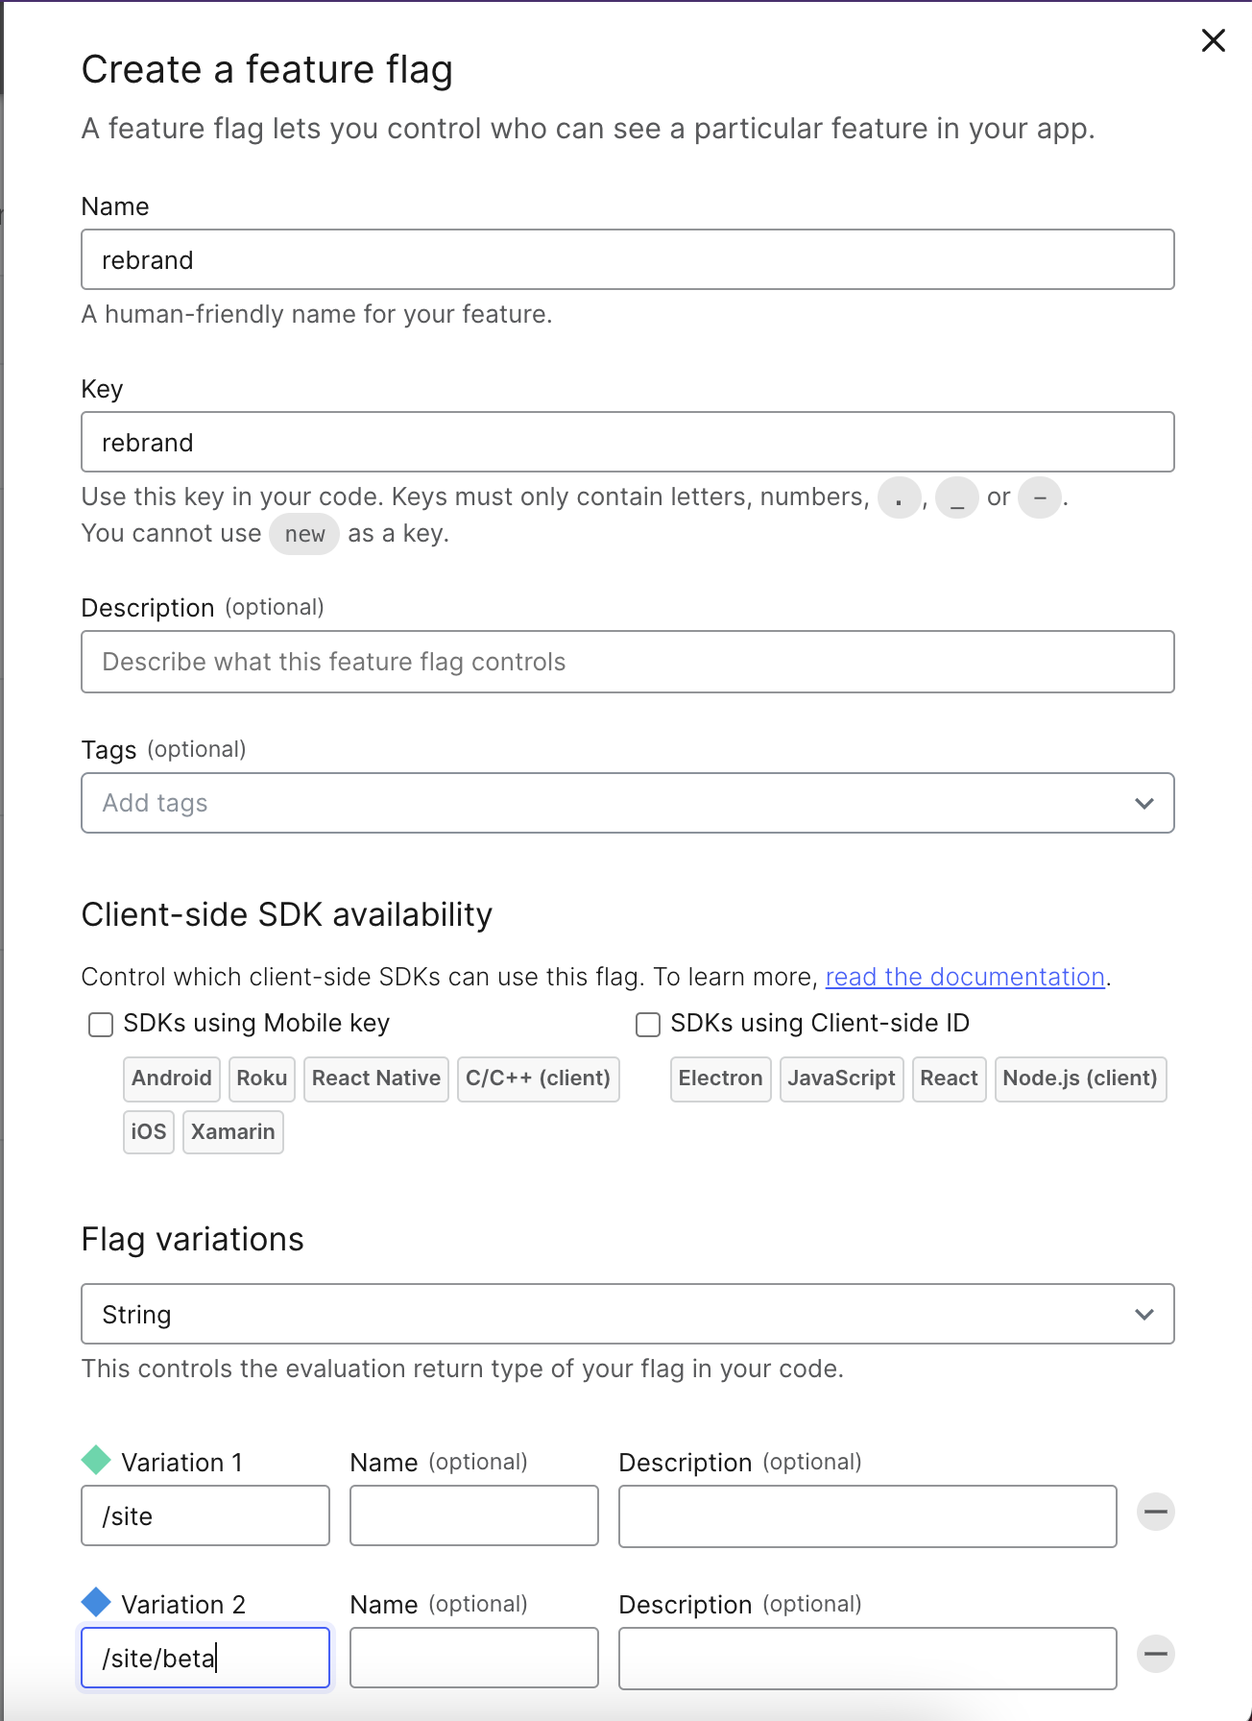
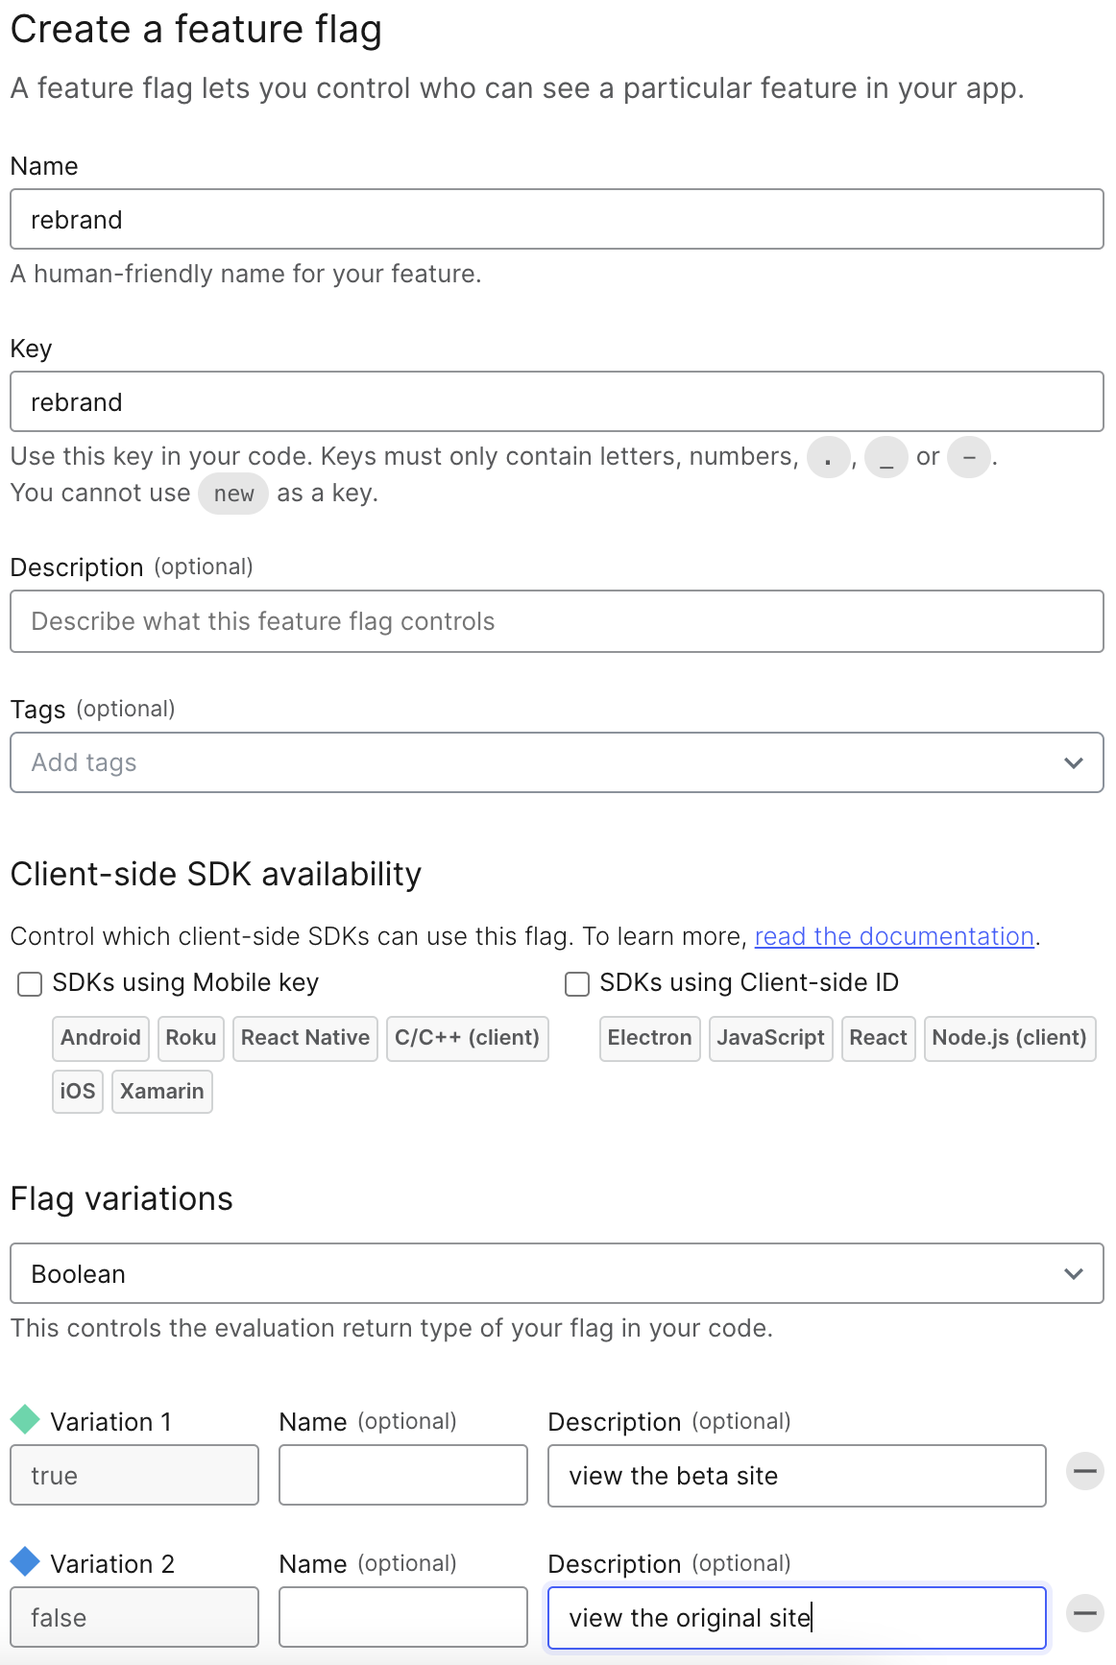
new articles

diff --git a/LambdaEdge/Using LaunchDarkly with AWS Lambda.md b/LambdaEdge/Using LaunchDarkly with AWS Lambda.md
@@ -6,7 +6,7 @@ In this guide, we'll explore how to build a serverless function using [AWS Lambd
 
 ## The Example
 
-Let's imagine our company is launching a rebrand tht includes a new site relaunch. This is a clearly major undertaking and the marketing department wants to be sure that everything is perfect. Rather than simply flip the switch from one day to the next, they want to roll out the new site to an increasing percentage of users to ensure everything looks good before eventually transitioning everyone to the new page. How can we do this without it becoming a major DevOps headache?
+Let's imagine our company is launching a rebrand that includes a new site relaunch. This is a clearly major undertaking and the marketing department wants to be sure that everything is perfect. Rather than simply flip the switch from one day to the next, they want to roll out the new site to an increasing percentage of users to ensure everything looks good before eventually transitioning everyone to the new page. How can we do this without it becoming a major DevOps headache?
 
 In our example, we'll use LaunchDarkly to eliminate the DevOps headaches involved in this while also allowing the marketing team full control of the rollout. LaunchDarkly will assign each user to a variation that determines whether they see the new site or the old site. Our AWS Lambda@Edge function will use this information to route them to the appropriate version of the site at the edge rather than relying on a client-side or server-side redirect.
 
@@ -21,7 +21,18 @@ The source code for this example can be found at [on GitHub](https://github.com/
 Before we begin coding, there are a couple of resources that we should set up within AWS:
 
 1. **An S3 Bucket** – S3 is Amazon's storage solution where we can house and retrieve arbitrary files. It can also be used to host a static web site, which is what we'll be using it for in this guide. Our site is intentionally simple. It has an index page in the root as well as a `/beta` folder that contains the same page with the new branding. Once we've completed our Lambda function, users will either be directed to the old site or the new site depending on which variation they are assigned to within LaunchDarkly. LaunchDarkly determines this by assigning each unique user (identified by their key in this scenario) according to the percentage rollout we'll define.
-2. **A CloudFront Distribution** – This is required to run a Lambda function via AWS's edge servers ( Lambda@Edge) on their CloudFront CDN. Since our function will redirect users to the proper site, this is better done "at the edge" so as to limit any latency the user might see during the request. Rather than intercept the request on the server and do a server-side redirect or even sending back a response that performs a client-side redirect, we can intercept this request at the CDN level closest to the user and direct it to the proper version of the site.
+2. **A CloudFront Distribution** – This is required to run a Lambda function via AWS's edge servers (Lambda@Edge) on their CloudFront CDN. Since our function will redirect users to the proper site, this is better done "at the edge" so as to limit any latency the user might see during the request. Rather than intercept the request on the server and do a server-side redirect or even sending back a response that performs a client-side redirect, we can intercept this request at the CDN level closest to the user and direct it to the proper version of the site.
+
+### CloudFormation
+
+In the AWS console, search for CloudFormation.
+Click create stack
+Choose Template is Ready and Upload a Template and then choose the template file from the repo
+Click Next
+Name the stack "LaunchDarkly-Example" and click next
+On the configure stack options step, accept the defaults and click next
+Review the details and click "Create stack"
+wait for the stack to be created (this can take a few minutes)
 
 ### Setting Up an S3 Bucket
 
@@ -97,7 +108,7 @@ Now that we have our function dowloaded locally, we can install the [LaunchDarkl
     return response;
    };
    ```
-5. To update our Lambda function, including uploading the npm dependencies, open the AWS panel in VS Code. Right-click the function and select "Upload". When prompted, choose "Directory" and then select the directory that the Lambda function resides in. When it asks you whether to build with SAM, choose "No" to just upload the contents of the directory.
+5. To update our Lambda function, including uploading the npm dependencies, open the AWS panel in Visual Studio Code. Right-click the function and select "Upload". When prompted, choose "Directory" and then select the directory that the Lambda function resides in. When it asks you whether to build with SAM, choose "No" to just upload the contents of the directory.
 6. To test the function, right-click on the function again and choose "Invoke on AWS". We do not need to provide any payload, just click the "invoke" button. The output panel should show a response `{"statusCode":200,"body":"\"Initialization successful\""}` showing that the SDK client properly initialized.
 	
 	![Our initialization was successful](aws-invoke-initialize.png)
@@ -129,12 +140,12 @@ Now that we have a flag, let's use it within our function.
       statusCode: 200,
     };
     await client.waitForInitialization();
-    let landingPage = await client.variation(
+    let viewBetaSite = await client.variation(
       "rebrand",
       { key: "brinaldi@launchdarkly.com" },
       false
     );
-    response.body = JSON.stringify(landingPage);
+    response.body = JSON.stringify(viewBetaSite);
     return response;
     };
 	```
@@ -146,7 +157,7 @@ We've successfully integrated and used a LaunchDarkly flag within a Lambda funct
 
 ## Deploying Our Function to Lambda@Edge
 
-We're using Lambda but we're not yet using Lambda@Edge. Let's walk through how to deploy our functin there.
+We're using Lambda but we're not yet using Lambda@Edge. Let's walk through how to deploy our function there.
 
 A function running on Lambda@Edge receives a specific [event structure](https://docs.aws.amazon.com/AmazonCloudFront/latest/DeveloperGuide/lambda-event-structure.html). We'll utilize this to specify a key for LaunchDarkly that will ensure that different users get different variations but the same user always end up in the same group (as in, they don't see one site on one click and one site on another, which would be bad).
 
@@ -154,15 +165,19 @@ Let's start by updating our function to use this event. The following code gets 
 
 ```javascript
 exports.handler = async (event) => {
-  const s3url =
-    "http://launchdarkly-example.s3-website-us-east-1.amazonaws.com";
+  let URL =
+    "https://launchdarklydemostack1-s3bucketforwebsitecontent-jffmp2434grq.s3.amazonaws.com/site/";
 
   await client.waitForInitialization();
-  let landingPage = await client.variation(
+  let viewBetaSite = await client.variation(
     "rebrand",
     { key: event.Records[0].cf.request.clientIp },
     false
   );
+  console.log(`LaunchDarkly returned ${viewBetaSite}`);
+
+  if (viewBetaSite) URL += "beta/index.html";
+  else URL += "index.html";
   return {
     status: "302",
     statusDescription: "Found",
@@ -170,13 +185,15 @@ exports.handler = async (event) => {
       location: [
         {
           key: "Location",
-          value: s3url + landingPage,
+          value: URL,
         },
       ],
     },
   };
 };
 ```
+
+NOTE ABOUT CACHE CONTROL
 
 After updating the code, use the AWS panel in Visual Studio Code to upload it again by right clicking on the function and choosing "Upload Lambda".
 
@@ -185,7 +202,7 @@ After updating the code, use the AWS panel in Visual Studio Code to upload it ag
 In order to test the function within the AWS panel, we'll need to provide a payload that represents the Lambda@Edge event structure. Open the AWS panel in Visual Studio Code. Right-click on the function and select "Invoke on AWS". From the sample request payload dropdown, choose the "Cloudfront HTTP Redirect" and then click "Invoke". You should get a response like:
 
 ```json
-{"status":"302","statusDescription":"Found","headers":{"location":[{"key":"Location","value":"http://launchdarkly-example.s3-website-us-east-1.amazonaws.com/site/beta"}]}}
+{"status":"302","statusDescription":"Found","headers":{"location":[{"key":"Location","value":"d123.cf.net/site/beta/experiment-pixel.jpg"}]}}
 ```
 
 ![Invoking the Lambda with a sample payload](aws-invoke-lambda-edge.png)
@@ -207,7 +224,7 @@ In the "Existing Role" dropdown, select "service-role/lambdaEdge". We don't need
 Now we're ready to enable the trigger.
 
 1. Open your Lambda Function and click the "Add trigger" button.
-2. In "Select a trigger" dropdown search for "CloudFront" and then click the button to "Deploy to Lambda@Edge". Accept the defaults and click "Deploy".
+2. In "Select a trigger" dropdown search for "CloudFront" and then click the button to "Deploy to Lambda@Edge". CHANGE FROM ORIGIN REQUEST - EXPLAIN! Accept the defaults and click "Deploy".
 	
 	![Adding a CloudFront trigger](aws-lambda-add-trigger.png)
 3. When configuring the CloudFront trigger, all of the defaults are ok. Click deploy (note that you may be asked to do this twice, just accept the defaults both times).

diff --git a/LambdaEdge/Using LaunchDarkly with AWS Lambda@Edge.md b/LambdaEdge/Using LaunchDarkly with AWS Lambda@Edge.md
@@ -17,6 +17,19 @@ Within AWS, we'll need to create two different resources to complete this challe
 1. **An S3 Bucket** – This will house our simple "web site." The site has an index page in the root as well as a `/beta` folder that contains the same. page with the new branding. Once the challenge is complete, users will either be directed to the old site or the new site depending on which variation they are assigned to within LaunchDarkly. LaunchDarkly determines this by assigning each unique user (identified by their key in this scenario) according to the percentage rollout we'll define.
 2. **A CloudFront Distribution** – This is required to run a Lambda function via AWS's edge servers (i.e. Lambda@Edge). Since the goal of this challenge is to redirect users to the proper site, this is better done "at the edge" so as to limit any latency the user might see during the request. Rather than intercept the request on the server and do a server-side redirect or performing some kind of client-side redirect, we can intercept this request at the CDN level closest to the user and direct it to the proper version of the site.
 
+### CloudFormation
+
+NOTE: This part is the update that is not done
+
+In the AWS console, search for CloudFormation.
+Click create stack
+Choose Template is Ready and Upload a Template and then choose the template file from the repo
+Click Next
+Name the stack "LaunchDarkly-Example" and click next
+On the configure stack options step, accept the defaults and click next
+Review the details and click "Create stack"
+wait for the stack to be created (this can take a few minutes)
+
 ### Setting Up an S3 Bucket with the Challenge Resources
 
 1. Search for S3 in the AWS console. Click the "Create bucket" button.
@@ -111,7 +124,7 @@ Now let's use our new flag within our function.
 
 1. Replace the handler to the following to call our flag. We'll use our email as a static key for the moment. The key is what will determine whether we are served the same variation or a new one based upon our rollout percentages. We're hardcoding the key for the moment, so we'll always get the same result regardless of how many times we run it.
 	```javascript
-  exports.handler = async (event) => {
+    exports.handler = async (event) => {
     let response = {
       statusCode: 200,
     };
@@ -123,7 +136,7 @@ Now let's use our new flag within our function.
     );
     response.body = JSON.stringify(landingPage);
     return response;
-  };
+    };
 	```
 2. Open the AWS panel. Right-click to upload and then, when the upload finishes, right click to invoke it again. You do not need a payload. You should receive a response like `{"statusCode":200,"body":"\"/site/beta\""}`.
 	
@@ -137,15 +150,19 @@ Let's update our function to use this event. The following code gets the value o
 
 ```javascript
 exports.handler = async (event) => {
-  const s3url =
-    "http://launchdarkly-example.s3-website-us-east-1.amazonaws.com";
+  let URL =
+    "https://launchdarklydemostack1-s3bucketforwebsitecontent-jffmp2434grq.s3.amazonaws.com/site/";
 
   await client.waitForInitialization();
-  let landingPage = await client.variation(
+  let viewBetaSite = await client.variation(
     "rebrand",
     { key: event.Records[0].cf.request.clientIp },
     false
   );
+  console.log(`LaunchDarkly returned ${viewBetaSite}`);
+
+  if (viewBetaSite) URL += "beta/index.html";
+  else URL += "index.html";
   return {
     status: "302",
     statusDescription: "Found",
@@ -153,13 +170,15 @@ exports.handler = async (event) => {
       location: [
         {
           key: "Location",
-          value: s3url + landingPage,
+          value: URL,
         },
       ],
     },
   };
 };
 ```
+
+NOTE ABOUT CACHE CONTROL HEADER
 
 After updating the code, use the AWS panel in VS Code to upload it again.
 
@@ -168,7 +187,7 @@ After updating the code, use the AWS panel in VS Code to upload it again.
 In order to test the function, we'll need to provide a payload that represents the Lambda@Edge event structure. Open the AWS panel in VS Code. Right-click on the function and select "Invoke on AWS". From the sample request payload dropdown, choose the "Cloudfront HTTP Redirect" and then click "Invoke". You should get a response like:
 
 ```json
-{"status":"302","statusDescription":"Found","headers":{"location":[{"key":"Location","value":"http://launchdarkly-example.s3-website-us-east-1.amazonaws.com/site/beta"}]}}
+{"status":"302","statusDescription":"Found","headers":{"location":[{"key":"Location","value":"d123.cf.net/site/beta/experiment-pixel.jpg"}]}}
 ```
 
 ![Invoking the Lambda with a sample payload](aws-invoke-lambda-edge.png)
@@ -188,14 +207,14 @@ In the "Existing Role" dropdown, select "service-role/lambdaEdge". You don't nee
 Now we're ready to enable the trigger.
 
 1. Open your Lambda Function and click the "Add trigger" button.
-2. In "Select a trigger" dropdown search for "CloudFront" and then click the button to "Deploy to Lambda@Edge". Accept the defaults and click "Deploy".
+2. In "Select a trigger" dropdown search for "CloudFront" and then click the button to "Deploy to Lambda@Edge". CHANGE FROM ORIGIN REQUEST - EXPLAIN! Accept the defaults and click "Deploy".
 	
 	![Adding a CloudFront trigger](aws-lambda-add-trigger.png)
 3. When configuring the CloudFront trigger, all of the defaults are ok. Click deploy (note that you may be asked to do this twice, just accept the defaults both times).
 
 ![Our trigger is deployed](aws-lambda-cloudfront-trigger.png)
 
-Finally, let's test that this actually works. Click the "CloudFront" boz within the "Function Overview". This should open the Configuration > Triggers settings. Click the link next to the CloudFront trigger that has our CloudFront distribution ID. This will open up the CloudFront distribution in a new tab. Open the CloudFront distribution and under the "Details" section, copy the URL for this CloudFront distribution. If we paste this URL in the browser (be sure the CloudFront distribution has finished deploying first), it should direct us to either the old version of the page or the new one. (Note that if you're assigned to the old site but want to see the new one, just append `/beta` to the URL you are redirected to).
+Finally, let's test that this actually works. Click the "CloudFront" box within the "Function Overview". This should open the Configuration > Triggers settings. Click the link next to the CloudFront trigger that has our CloudFront distribution ID. This will open up the CloudFront distribution in a new tab. Open the CloudFront distribution and under the "Details" section, copy the URL for this CloudFront distribution. If we paste this URL in the browser (be sure the CloudFront distribution has finished deploying first), it should direct us to either the old version of the page or the new one. (Note that if you're assigned to the old site but want to see the new one, just append `/beta` to the URL you are redirected to).
 
 Congrats! You've completed the challenge. If you need to cleanup your environment, follow the instructions below.
 

diff --git a/Cloudflare EdgeSDK/Using the LaunchDarkly EdgeSDK with CloudFlare.md b/Cloudflare EdgeSDK/Using the LaunchDarkly EdgeSDK with CloudFlare.md
@@ -1,0 +1,82 @@
+# Using the LaunchDarkly EdgeSDK with CloudFlare
+
+Playground: https://cloudflareworkers.com/
+
+Examples: https://developers.cloudflare.com/workers/examples
+
+https://www.smashingmagazine.com/2019/04/cloudflare-workers-serverless/
+
+## Getting Set Up
+
+Install Wrangler https://developers.cloudflare.com/workers/cli-wrangler/install-update
+
+configure with your Cloudflare account using `wrangler login` or follow the instructions here https://developers.cloudflare.com/workers/cli-wrangler/authentication
+
+We're going to use Workers Sites https://developers.cloudflare.com/workers/platform/sites/start-from-scratch (see note) to publish a simple static site built with Hugo
+
+> While Wrangler 2 beta supports a new, streamlined Workers integration with Pages, it does not currently allow for providing a custom Webpack configuration, wich is required for LaunchDarkly's Cloudflare Edge SDK.
+
+
+### Cloudflare's HTMLRewriter Class
+
+The examples below make use of a a powerful feature that Cloudflare Workers provides called [HTMLRewriter](https://developers.cloudflare.com/workers/runtime-apis/html-rewriter). HTMLRewriter is a JavaScript class that you can leverage within Cloudflare worker code to modify the content of the response being sent back to the user. This allows you to do things like modify the page's HTML or change text in the response. To better understand the code in the examples that follow, let's cover some of the basics of the HTMLRewriter. 
+
+A new instance of the HTMLRewriter class can be constructed as follows:
+
+```javascript
+const rewriter = new HTMLRewriter();
+```
+
+An instance of HTMLRewriter provides two functions:
+
+1. `on()` listens for any selected elements on the page. Elements are selected via [selectors](https://developers.cloudflare.com/workers/runtime-apis/html-rewriter#selectors) that offer a subset of standard [CSS selectors](https://developer.mozilla.org/en-US/docs/Web/CSS/CSS_Selectors) commonly used for selecting elements with the document object model (DOM). Each matching element is passed to the element handler that you define.
+2. `onDocument()` responds to the entire HTML document, passing the contents of that document to a document handler that you specify.
+
+Corresponding to the above, there are two types of handlers:
+
+1. [Element Handlers](https://developers.cloudflare.com/workers/runtime-apis/html-rewriter#element-handlers) specify the code that will run on each matching element returned by the selector specified in `on()`. This can be used to add, update or remove matching elements and content from within the HTML response.
+2. [Document Handlers](https://developers.cloudflare.com/workers/runtime-apis/html-rewriter#document-handlers) specify the code that runs when the entire HTML document is received. This can be used to modify the doctype, modify the text or add code that runs at the end of the document.
+
+Two of the below examples will make use of element handlers to modify the HTML response with a Cloudflare Worker before it is ever received by the end user. If you'd like to know more about HTMLRewriter, check the [Cloudflare docs](https://developers.cloudflare.com/workers/runtime-apis/html-rewriter).
+
+## Bootstrapping client-side flag values
+
+A persistent problem with modifying the client UI on the web using JavaScript is the delay between when a UI element is initially rendered and when the update runs in the script. This causes when can be called a "flash of initial content", where the initial rendering flashes on screen before it gets updated. A common example of this is login/sign up links briefly rendering before getting updated with the logged in user's information.
+
+Imagine a scenario using a LaunchDarkly flag to enable or disable a feature within the browser UI. You definitely do not want the feature to display, however briefly, before disappearing. This could cause confusion and possibly frustration on the part of the user. While LaunchDarkly's client SDKs provide tools caching in LocalStorage to minimize these types of issues, the nature of how JavaScript runs in the browser means that any fully client-side solution cannot completely eliminate the delay. Cloudflare Workers will allow us to eliminate that delay by directly injecting our client-side flag values into the HTML before the request is ever received by the browser.
+
+
+
+this will eliminate the flash or small rendering delay that you can see when using normal client side rendering
+
+https://github.com/launchdarkly/launchdarkly-cloudflare-worker-template/blob/main/index.js
+
+https://docs.launchdarkly.com/guides/platform-specific/static-sites#bootstrapping-the-client
+
+
+## Modifying content at the edge
+
+https://developers.cloudflare.com/workers/examples/ab-testing
+
+https://developers.cloudflare.com/workers/examples/fetch-html
+
+Attach the worker to a route: https://developers.cloudflare.com/workers/platform/routes
+
+## Modifying the Response Headers for a Request
+
+## Conditional Response
+
+https://developers.cloudflare.com/workers/examples/conditional-response
+
+
+## Conditional Routing
+
+
+
+## Rewrite Links
+
+https://developers.cloudflare.com/workers/examples/rewrite-links
+
+
+
+## Header values based on flags
